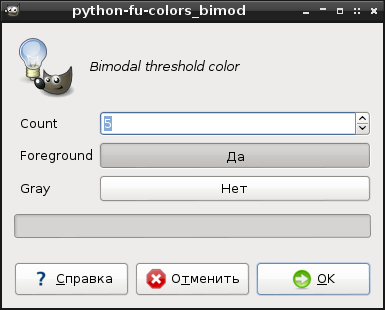
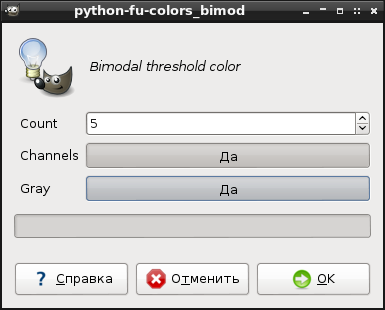
0.3.0: replaced foreground by channels threshold

diff --git a/colors_bimod.py b/colors_bimod.py
@@ -10,13 +10,38 @@ from array import array
 
 gettext.install("gimp20-python", gimp.locale_directory, unicode=True)
 
-def colors_bimod(img, layer, tcount, tfore, tgray):
+def threshold_bimod(hist, tsize, tpart):
+    T = tsize * tpart
+    Tn = 0
+    while (T != Tn) :
+
+        Tn = T
+        Tb = 0
+        Tw = 0
+        ib = 0
+        iw = 0
+        for c in xrange(0, int(T)) :
+            Tb += hist[c] * c
+            ib += hist[c]
+        for c in xrange(int(T + 1), int(tsize)) :
+            Tw += hist[c] * c
+            iw += hist[c]
+            if ((iw + ib) == 0):
+                T = Tn
+            elif (iw == 0) :
+                T = Tb / ib
+            elif (ib == 0) :
+                T = Tw / iw
+            else :
+                T = ((Tw / iw) * tpart + (Tb / ib) * (1.0 - tpart))
+    return T
+
+def colors_bimod(img, layer, tcount, tchannels, tgray):
     gimp.progress_init("Processing" + layer.name + "...")
     pdb.gimp_undo_push_group_start(img)
     pdb.gimp_layer_add_alpha(layer)
 
     layername = "bimod " + layer.name
-    Tmax = 768
 
     # Create the new layer:
     srcWidth, srcHeight = layer.width, layer.height
@@ -46,79 +71,148 @@ def colors_bimod(img, layer, tcount, tfore, tgray):
     dest_pixels = array("B", [0] * (srcWidth * srcHeight * p_size))
     gimp.progress_update(0.2)
 
-    # Histogram:
-    hist = [0] * int(Tmax)
-    pmin = int(Tmax)
-    pmax = 0
-    for x in xrange(0, srcWidth) :
-        for y in xrange(0, srcHeight) :
-            src_pos = (x + srcWidth * y) * p_size
-            dest_pos = src_pos
-            pixel = src_pixels[src_pos: src_pos + p_size]
-            pval = pixel[0] + pixel[1] + pixel[2]
-            hist[pval] = hist[pval] + 1
-            if pmin > pval :
-                pmin = pval
-            if pmax < pval :
-                pmax = pval
-    gimp.progress_update(0.5)
-    # Threshold:
-    thres = [0] * int(tcount + 1)
-    for tt in xrange(1, int(tcount)) :
-        part = 1.0 * tt / tcount
-        T = Tmax * part
-        Tn = 0
-        while (T != Tn) :
-
-            Tn = T
-            Tb = 0
-            Tw = 0
-            ib = 0
-            iw = 0
-            for c in xrange(0, int(T)) :
-                Tb += hist[c] * c
-                ib += hist[c]
-            for c in xrange(int(T + 1), int(Tmax)) :
-                Tw += hist[c] * c
-                iw += hist[c]
-                if ((iw + ib) == 0):
-                    T = Tn
-                elif (iw == 0) :
-                    T = Tb / ib
-                elif (ib == 0) :
-                    T = Tw / iw
-                else :
-                    T = ((Tw / iw) * part + (Tb / ib) * (1.0 - part))
-        thres[tt] = int(T + 0.5)
-    newval = [0] * int(tcount + 1)
-    if tgray is True:
-        thres[0] = int(pmin)
-        thres[int(tcount)] = int(pmax)
-        for tt in xrange(0, int(tcount)) :
-            newval[tt] = int((thres[tt] + thres[tt + 1]) / 6)
-        thres[0] = 0
+    if tchannels is True:
+        # Histogram:
+        Tmax = 256
+        hist_r = [0] * int(Tmax)
+        hist_g = [0] * int(Tmax)
+        hist_b = [0] * int(Tmax)
+        pmin_r = int(Tmax)
+        pmax_r = 0
+        pmin_g = int(Tmax)
+        pmax_g = 0
+        pmin_b = int(Tmax)
+        pmax_b = 0
+        for x in xrange(0, srcWidth) :
+            for y in xrange(0, srcHeight) :
+                src_pos = (x + srcWidth * y) * p_size
+                dest_pos = src_pos
+                pixel = src_pixels[src_pos: src_pos + p_size]
+                pval = pixel[0]
+                hist_r[pval] = hist_r[pval] + 1
+                if pmin_r > pval :
+                    pmin_r = pval
+                if pmax_r < pval :
+                    pmax_r = pval
+                pval = pixel[1]
+                hist_g[pval] = hist_g[pval] + 1
+                if pmin_g > pval :
+                    pmin_g = pval
+                if pmax_g < pval :
+                    pmax_g = pval
+                pval = pixel[2]
+                hist_b[pval] = hist_b[pval] + 1
+                if pmin_b > pval :
+                    pmin_b = pval
+                if pmax_b < pval :
+                    pmax_b = pval
+        gimp.progress_update(0.5)
+        # Threshold:
+        thres_r = [-1] * int(tcount + 1)
+        thres_g = [-1] * int(tcount + 1)
+        thres_b = [-1] * int(tcount + 1)
+        for tt in xrange(1, int(tcount)) :
+            part = 1.0 * tt / tcount
+            thres_r[tt] = int(threshold_bimod(hist_r, Tmax, part) + 0.5)
+            thres_g[tt] = int(threshold_bimod(hist_g, Tmax, part) + 0.5)
+            thres_b[tt] = int(threshold_bimod(hist_b, Tmax, part) + 0.5)
+        newval_r = [0] * int(tcount + 1)
+        newval_g = [0] * int(tcount + 1)
+        newval_b = [0] * int(tcount + 1)
+        if tgray is True:
+            thres_r[0] = int(pmin_r)
+            thres_g[0] = int(pmin_g)
+            thres_b[0] = int(pmin_b)
+            thres_r[int(tcount)] = int(pmax_r)
+            thres_g[int(tcount)] = int(pmax_g)
+            thres_b[int(tcount)] = int(pmax_b)
+            for tt in xrange(0, int(tcount)) :
+                newval_r[tt] = int((thres_r[tt] + thres_r[tt + 1]) / 2)
+                newval_g[tt] = int((thres_g[tt] + thres_g[tt + 1]) / 2)
+                newval_b[tt] = int((thres_b[tt] + thres_b[tt + 1]) / 2)
+            thres_r[0] = -1
+            thres_g[0] = -1
+            thres_b[0] = -1
+        else :
+            for tt in xrange(0, int(tcount)) :
+                newval_r[tt] = int(255 * tt / (tcount - 1))
+                newval_g[tt] = newval_r[tt]
+                newval_b[tt] = newval_r[tt]
+        thresval_r = [0] * int(Tmax)
+        thresval_g = [0] * int(Tmax)
+        thresval_b = [0] * int(Tmax)
+        for t in xrange(0, Tmax) :
+            for tt in xrange(0, int(tcount)) :
+                if (t > thres_r[tt]) :
+                    thresval_r[t] = newval_r[tt]
+                if (t > thres_g[tt]) :
+                    thresval_g[t] = newval_g[tt]
+                if (t > thres_b[tt]) :
+                    thresval_b[t] = newval_b[tt]
+        gimp.progress_update(0.6)
+        # Final loop:
+        for x in xrange(0, srcWidth) :
+            for y in xrange(0, srcHeight) :
+                src_pos = (x + srcWidth * y) * p_size
+                dest_pos = src_pos
+                pixel = src_pixels[src_pos: src_pos + p_size]
+                newpix = pixel
+                newpix[0] = thresval_r[int(pixel[0])]
+                newpix[1] = thresval_g[int(pixel[1])]
+                newpix[2] = thresval_b[int(pixel[2])]
+                dest_pixels[dest_pos : dest_pos + p_size] = newpix
     else :
-        for tt in xrange(0, int(tcount)) :
-            newval[tt] = int(255 * tt / (tcount - 1))
-    thresval = [0] * int(Tmax)
-    for t in xrange(0, Tmax) :
-        for tt in xrange(0, int(tcount)) :
-            if (t > thres[tt]) :
-                thresval[t] = newval[tt]
-    gimp.progress_update(0.6)
-    # Final loop:
-    for x in xrange(0, srcWidth) :
-        for y in xrange(0, srcHeight) :
-            src_pos = (x + srcWidth * y) * p_size
-            dest_pos = src_pos
-            pixel = src_pixels[src_pos: src_pos + p_size]
-            pval = pixel[0] + pixel[1] + pixel[2]
-            newpix = pixel
-            newpt = thresval[int(pval)]
-            newpix[0] = newpt
-            newpix[1] = newpt
-            newpix[2] = newpt
-            dest_pixels[dest_pos : dest_pos + p_size] = newpix
+        # Histogram:
+        Tmax = 768
+        hist = [0] * int(Tmax)
+        pmin = int(Tmax)
+        pmax = 0
+        for x in xrange(0, srcWidth) :
+            for y in xrange(0, srcHeight) :
+                src_pos = (x + srcWidth * y) * p_size
+                dest_pos = src_pos
+                pixel = src_pixels[src_pos: src_pos + p_size]
+                pval = pixel[0] + pixel[1] + pixel[2]
+                hist[pval] = hist[pval] + 1
+                if pmin > pval :
+                    pmin = pval
+                if pmax < pval :
+                    pmax = pval
+        gimp.progress_update(0.5)
+        # Threshold:
+        thres = [-1] * int(tcount + 1)
+        for tt in xrange(1, int(tcount)) :
+            part = 1.0 * tt / tcount
+            thres[tt] = int(threshold_bimod(hist, Tmax, part) + 0.5)
+        newval = [0] * int(tcount + 1)
+        if tgray is True:
+            thres[0] = int(pmin)
+            thres[int(tcount)] = int(pmax)
+            for tt in xrange(0, int(tcount)) :
+                newval[tt] = int((thres[tt] + thres[tt + 1]) / 6)
+            thres[0] = -1
+        else :
+            for tt in xrange(0, int(tcount)) :
+                newval[tt] = int(255 * tt / (tcount - 1))
+        thresval = [0] * int(Tmax)
+        for t in xrange(0, Tmax) :
+            for tt in xrange(0, int(tcount)) :
+                if (t > thres[tt]) :
+                    thresval[t] = newval[tt]
+        gimp.progress_update(0.6)
+        # Final loop:
+        for x in xrange(0, srcWidth) :
+            for y in xrange(0, srcHeight) :
+                src_pos = (x + srcWidth * y) * p_size
+                dest_pos = src_pos
+                pixel = src_pixels[src_pos: src_pos + p_size]
+                pval = pixel[0] + pixel[1] + pixel[2]
+                newpix = pixel
+                newpt = thresval[int(pval)]
+                newpix[0] = newpt
+                newpix[1] = newpt
+                newpix[2] = newpt
+                dest_pixels[dest_pos : dest_pos + p_size] = newpix
     gimp.progress_update(1.0)
 
     # Copy the whole array back to the pixel region:
@@ -127,13 +221,6 @@ def colors_bimod(img, layer, tcount, tfore, tgray):
     destDrawable.flush()
     destDrawable.merge_shadow(True)
     destDrawable.update(0, 0, srcWidth,srcHeight)
-
-    if tfore is True:
-        layerforename = "foreground " + layer.name
-        layer_copy = pdb.gimp_layer_copy (layer, 1)
-        pdb.gimp_image_add_layer(img, layer_copy, -1)
-        pdb.gimp_layer_set_name(layer_copy, layerforename)
-        pdb.gimp_layer_set_mode(layer_copy, 13)
 
     pdb.gimp_image_undo_group_end(img)
 
@@ -151,7 +238,7 @@ register(
         (PF_IMAGE, "image",       "Input image", None),
         (PF_DRAWABLE, "drawable", "Input drawable", None),
         (PF_SPINNER, "tcount",    _("Count"),    2, (2, 765, 1)),
-        (PF_TOGGLE, "tfore", "Foreground", False),
+        (PF_TOGGLE, "tchannels", "Channels", False),
         (PF_TOGGLE, "tgray", "Gray", False),
     ],
     [],
